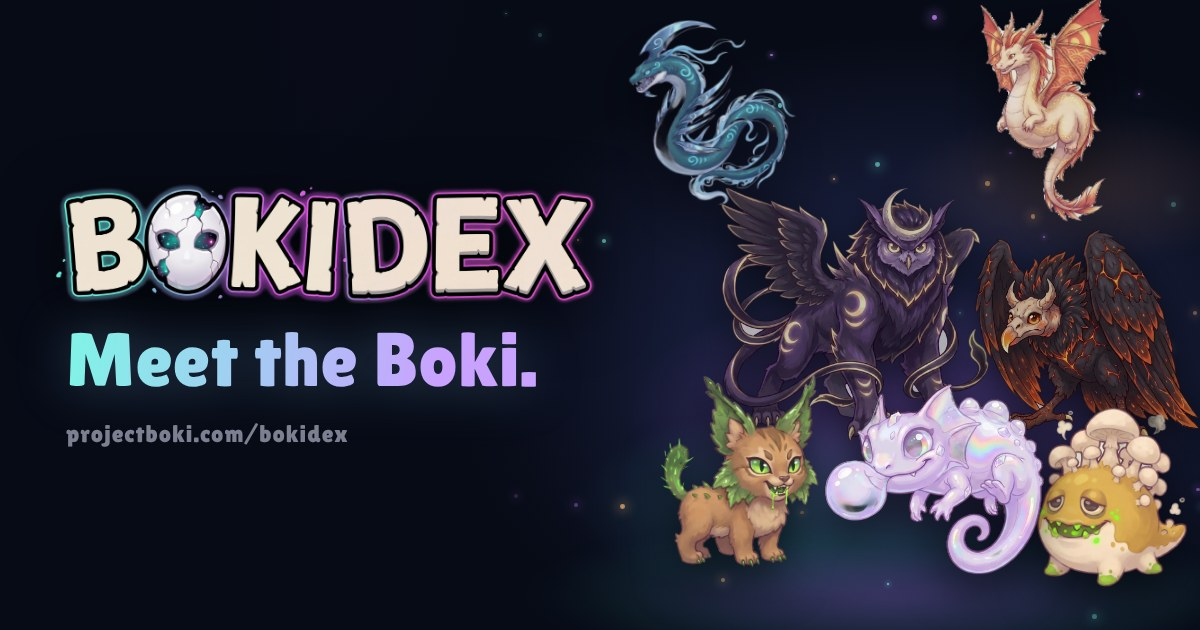
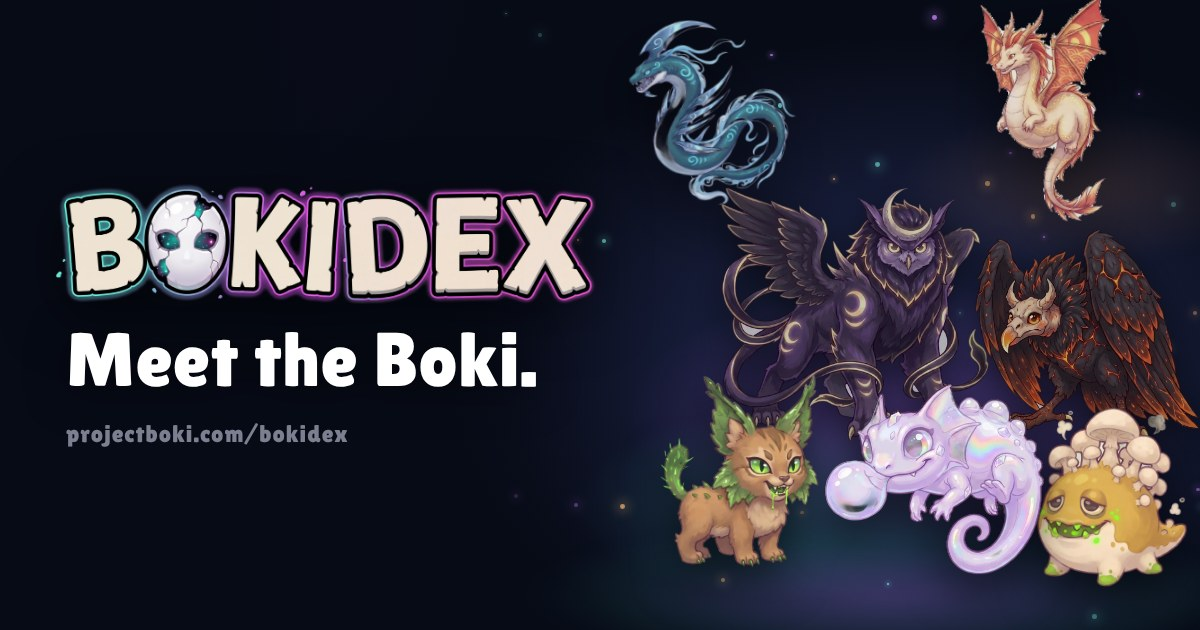
Bokidex share image: white headline
Claude-Session: https://claude.ai/code/session_015vSSPmpJoF22Rm1LS1od6V

Changed region(s): [[0.0308, 0.5127, 0.4625, 0.6333]]

diff --git a/bokidex/index.html b/bokidex/index.html
@@ -12,11 +12,11 @@
 <meta property="og:url" content="https://projectboki.com/bokidex/">
 <meta property="og:title" content="Bokidex · Project Boki">
 <meta property="og:description" content="Meet the Boki.">
-<meta property="og:image" content="https://projectboki.com/assets/img/og-bokidex.jpg?v=4">
+<meta property="og:image" content="https://projectboki.com/assets/img/og-bokidex.jpg?v=5">
 <meta property="og:image:width" content="1200">
 <meta property="og:image:height" content="630">
 <meta name="twitter:card" content="summary_large_image">
-<meta name="twitter:image" content="https://projectboki.com/assets/img/og-bokidex.jpg?v=4">
+<meta name="twitter:image" content="https://projectboki.com/assets/img/og-bokidex.jpg?v=5">
 <link rel="icon" href="/favicon.ico" sizes="any">
 <link rel="stylesheet" href="https://fonts.googleapis.com/css2?family=Lilita+One&family=Inter:wght@400;500;600;700;800&family=JetBrains+Mono:wght@500;700&display=swap">
 <script>/* theme: saved choice, else whatever the host set, else the OS setting. Set before first paint. */

diff --git a/tools/og/bokidex.html b/tools/og/bokidex.html
@@ -21,8 +21,7 @@ html,body{margin:0;background:#070b16}
 .word{margin:0 0 0 -10px;filter:drop-shadow(0 14px 30px rgba(0,0,0,.6))}
 .word img{width:540px;height:auto;display:block}
 .sub{margin-top:18px;font-size:76px;line-height:1;letter-spacing:.5px;
-  background:linear-gradient(100deg,#7ff5e6 0%,#c9a2ff 70%);-webkit-background-clip:text;background-clip:text;color:transparent;
-  filter:drop-shadow(0 0 26px rgba(140,200,255,.30))}
+  color:#fff;filter:drop-shadow(0 6px 20px rgba(0,0,0,.5))}
 .url{margin-top:22px;font-family:"Lilita";font-size:24px;letter-spacing:1px;color:rgba(220,226,245,.55)}
 </style></head><body>
 <div class="og" id="og">

diff --git a/tools/bokidex/patch.py b/tools/bokidex/patch.py
@@ -22,11 +22,11 @@ TAGS = """<!-- Share preview (site repo: tools/bokidex/patch.py). -->
 <meta property="og:url" content="https://projectboki.com/bokidex/">
 <meta property="og:title" content="Bokidex · Project Boki">
 <meta property="og:description" content="Meet the Boki.">
-<meta property="og:image" content="https://projectboki.com/assets/img/og-bokidex.jpg?v=4">
+<meta property="og:image" content="https://projectboki.com/assets/img/og-bokidex.jpg?v=5">
 <meta property="og:image:width" content="1200">
 <meta property="og:image:height" content="630">
 <meta name="twitter:card" content="summary_large_image">
-<meta name="twitter:image" content="https://projectboki.com/assets/img/og-bokidex.jpg?v=4">
+<meta name="twitter:image" content="https://projectboki.com/assets/img/og-bokidex.jpg?v=5">
 """
 SWIPE = '<script>\n/* Swipe left / right on an open entry to go to the next / previous Boki (and between pictures when one is zoomed).\n   Added from the projectboki.com site repo: keep this block in exports. Horizontal scrollers, the 3D viewer and form\n   fields keep their own swipes. */\n(function(){\n  let x0=0,y0=0,t0=0,ok=false;\n  const scroller=el=>{for(let n=el;n&&n!==document.body;n=n.parentElement){if(n.scrollWidth>n.clientWidth+4){const o=getComputedStyle(n).overflowX;if(o==="auto"||o==="scroll")return true}}return false};\n  addEventListener("touchstart",e=>{\n    if(e.touches.length!==1){ok=false;return}\n    const t=e.touches[0];x0=t.clientX;y0=t.clientY;t0=Date.now();\n    const zoom=!$("#zoom").hidden, el=e.target;\n    ok=zoom||(view==="dex"&&!!sel&&!viewerOpen()&&!!el.closest("#detail")&&!scroller(el)&&!el.closest("input,textarea,select,canvas,model-viewer,[data-noswipe]"));\n  },{passive:true});\n  addEventListener("touchend",e=>{\n    if(!ok)return; ok=false;\n    const t=e.changedTouches[0],dx=t.clientX-x0,dy=t.clientY-y0;\n    if(Date.now()-t0>800||Math.abs(dx)<55||Math.abs(dx)<Math.abs(dy)*1.6)return;\n    const d=dx<0?1:-1;\n    if(!$("#zoom").hidden){if(zoomList.length>1){zoomI=(zoomI+d+zoomList.length)%zoomList.length;$("#zoom-img").src=zoomList[zoomI]}return}\n    const det=$("#detail"), was=sel;\n    moveSel(d);\n    if(sel===was||!det||matchMedia("(prefers-reduced-motion: reduce)").matches)return;\n    det.animate([{transform:`translateX(${d*42}px)`,opacity:.35},{transform:"none",opacity:1}],{duration:260,easing:"cubic-bezier(.2,.8,.2,1)"});\n  },{passive:true});\n})();\n</script>\n'
 
